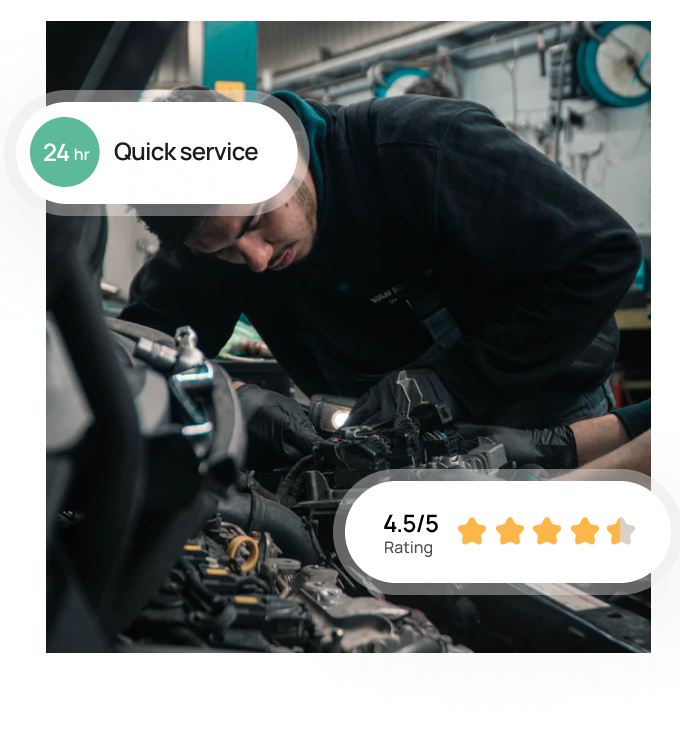
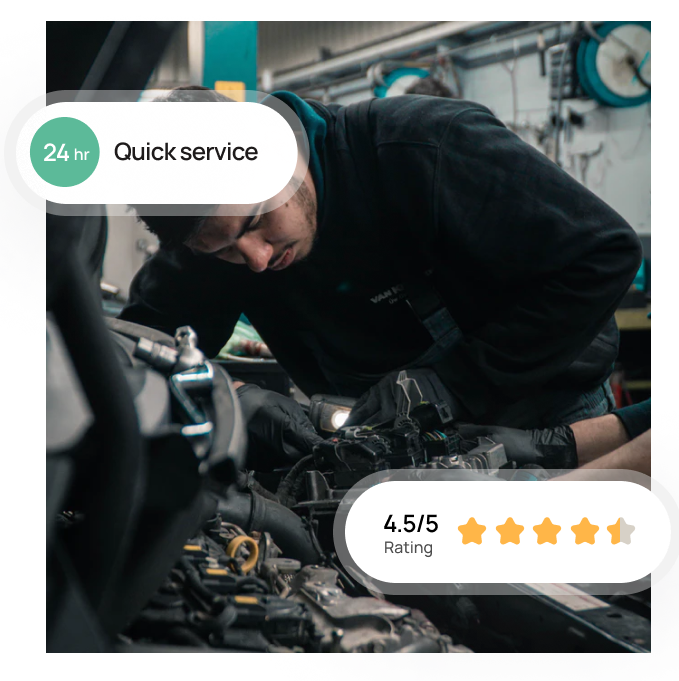
page 5 tablet view

diff --git a/css/style.css b/css/style.css
@@ -121,7 +121,7 @@
 
 #page1 .container .page-body .right-section {
     width: 50%;
-    height: 90vh;
+    height: auto;
 }
 
 #page1 .container .page-body .right-section img {
@@ -361,6 +361,7 @@ input[type="text"] {
     line-height: 36px;
     text-align: center;
     font-family: 'Manrope', sans-serif;
+    padding-top: 10px;
 }
 
 .offer-images .image-box-selected p {
@@ -1206,5 +1207,227 @@ footer p {
         margin: 0;
         font-size: 11px;
         line-height: 14px;
+    }
+}
+
+@media (max-width: 769px) {
+    #page1, #page2, #page4, #page5 {
+        width: 100%;
+        height: auto;
+        padding: 0;
+    }
+    #page1 .container {
+        width: 94%;
+        height: auto;
+    }
+    #page1 .container header {
+        margin: 20px auto;
+        justify-content: flex-start;
+        width: 100%;
+    }
+    #page1 .container header #logo {
+        width: 14%;
+    }
+    #page1 .container header #logo img {
+        width: 100%;
+    }
+    #page1 .container header .right-section {
+        width: 80%;
+    }
+    #page1 .container header .right-section nav {
+        width: 80%;
+        padding: 0 20px;
+    }
+    #page1 .container header ul a {
+        font-size: 16px;
+        padding: 0;
+        width: 20%;
+    }
+    #page1 .container header .contact {
+        width: 40%;
+        padding: 0;
+        justify-content: center;
+    }
+    #page1 .container header .contact img {
+        padding-left: 10px;
+    }
+    #page1 .container header .contact .road-assist #assist {
+        font-size: 14px;
+    }
+    #page1 .container header .contact .road-assist #phone-number {
+        font-size: 16px;
+        padding-top: 0;
+    }
+    #page1 .container .page-body {
+        width: 100%;
+        justify-content: center;
+        height: auto;
+    }
+    #page1 .container .page-body .left-section {
+        width: 50%;
+        margin-left: 10px;
+    }
+    #page1 .container .page-body .left-section h1 {
+        font-size: 36px;
+        line-height: 45px;
+        width: 100%;
+        padding-bottom: 10px;
+    }
+    #page1 .container .page-body .right-section {
+        width: 50%;
+    }
+    #page1 .container .page-body .left-section #button {
+        margin-bottom: 20px;
+    }
+    #page1 .container .page-body .left-section .open-part {
+        font-size: 16px;
+    }
+    #page1 .container .page-body .left-section .open-part #open {
+        font-size: 14px;
+        padding-bottom: 0;
+    }
+    /* Page 2 */
+    #page2 .services {
+        margin: 40px 0 0 40px;
+        height: auto;
+        width: 50%;
+    }
+    #page2 .services h2 {
+        font-size: 36px;
+        line-height: 38px;
+        width: 100%;
+        margin-bottom: 0;
+    }
+    #page2 .services ul li img {
+        width: 36px;
+    }
+    #page2 .services ul li h5 {
+        font-size: 25px;
+    }
+    #page2 .services ul li p {
+        font-size: 16px;
+        padding: 0 40px 20px 35px;
+        width: 100%;
+    }
+    #page2 .services .know-more {
+        padding-left: 35px;
+        margin-bottom: 30px;
+    }
+    #page2 .form-section h3 {
+        font-size: 36px;
+        line-height: 40px;
+        width: 80%;
+        margin: 50px 0 30px 10px;
+    }
+    input[type="text"] {
+        width: 80%;
+        padding: 8px 30px;
+        margin-bottom: 10px;
+        font-size: 20px;
+        line-height: 20px;
+        border-radius: 4px;
+    }
+    #page3 {
+        padding-top: 30px;
+    }
+    #page3 .process-left {
+        margin: 10px 30px 0;
+        width: 40%;
+    }
+    #page3 .process-left h1 {
+        font-size: 36px;
+    }
+    #page3 .process-left p {
+        line-height: 20px;
+        width: 80%;
+        letter-spacing: 0.02em;
+    }
+    #page3 .process-left #button {
+        width: auto;
+    }
+    .process-right {
+        height: auto;
+        width: 60%;
+    }
+    .process-right .process {
+        width: 90%;
+    }
+    .process-right .process .process-text h3 {
+        font-size: 24px;
+        margin: 5px 0;
+    }
+    .process-right .process .process-image {
+        width: 20%;
+    }
+    .process-right .process .process-text p {
+        width: 100%;
+        font-size: 15px;
+        margin-bottom: 10px;
+    }
+    .process-right .vertical-line {
+        border-left: 2px dashed #FF6433;
+        height: 60px;
+        margin-left: 5%;
+        margin-top: -70px;
+        margin-bottom: 5px;
+    }
+    /* Page 4 */
+    #page4 .top-section h1 {
+        margin: 0 auto;
+        font-size: 36px;
+        line-height: 40px;
+        width: 70%;
+    }
+    .offer-images {
+        width: 85%;
+    }
+    .offer-images .image-box, .offer-images .image-box-selected {
+        width: 23%;
+    }
+    .offer-images .image-box p, .offer-images .image-box-selected p {
+        font-size: 18px;
+        line-height: 22px;
+        text-align: center;
+        font-family: 'Manrope', sans-serif;
+    }
+    .learn-section .learn {
+        justify-content: flex-end;
+        padding: 20px 10% 0 ;
+    }
+    #page5 #image-section .left-image, #page5 #image-section .right-image {
+        width: 50%;
+        height: 250px;
+        background-position: center;
+        background-size: cover;
+        background-repeat: no-repeat;
+    }
+    #page5 #image-section #orange-box {
+        height: 250px;
+        width: 80%;
+        left: 160px;
+    }
+    #page5 #image-section #orange-box h3 {
+        font-size: 32px;
+        line-height: 40px;
+        padding: 30px 20px 0 30px;
+    }
+    #page5 #experience-section {
+        width: 95%;
+    }
+    .experience-row {
+        margin: 0 auto;
+    }
+    .exp-box {
+        width: 23%;
+        text-align: center;
+        margin: 10px 0;
+    }
+    .exp-box h1 {
+        font-size: 36px;
+        line-height: 40px;
+        
+    }
+    .exp-box p {
+        font-size: 16px;
     }
 }

diff --git a/index.html b/index.html
@@ -158,35 +158,35 @@
         </div>
         <div class="offer-images">
                 <div class="image-box">
-                    <img src="img/diagnostic.png" alt="a tiny car with a steth"><br>
+                    <img src="img/diagnostic.png" alt="">
                     <p>Diagnostics</p>
                 </div>
                 <div class="image-box">
-                    <img src="img/engine.png" alt=""><br>
+                    <img src="img/engine.png" alt="">
                     <p>Engine Repair</p>
                 </div>
                 <div class="image-box-selected">
-                    <img src="img/wheel.png" alt=""><br>
+                    <img src="img/wheel.png" alt="">
                     <p>Wheel Repair</p>
                 </div>
                 <div class="image-box">
-                    <img src="img/oil.png" alt=""><br>
+                    <img src="img/oil.png" alt="">
                     <p>Oil Filter</p>
                 </div>
                 <div class="image-box">
-                    <img src="img/body.png" alt=""><br>
+                    <img src="img/body.png" alt="">
                     <p>Body Work</p>
                 </div>
                 <div class="image-box">
-                    <img src="img/battery.png" alt=""><br>
+                    <img src="img/battery.png" alt="">
                     <p>Batteries</p>
                 </div>
                 <div class="image-box">
-                    <img src="img/shield.png" alt=""><br>
+                    <img src="img/shield.png" alt="">
                     <p>Insurance Claim</p>
                 </div>
                 <div class="image-box">
-                    <img src="img/custom.png" alt=""><br>
+                    <img src="img/custom.png" alt="">
                     <p>Custom Services</p>
                 </div>
         </div>
